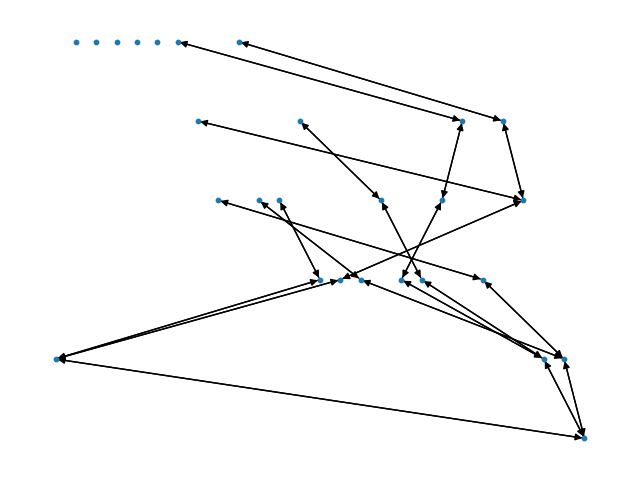
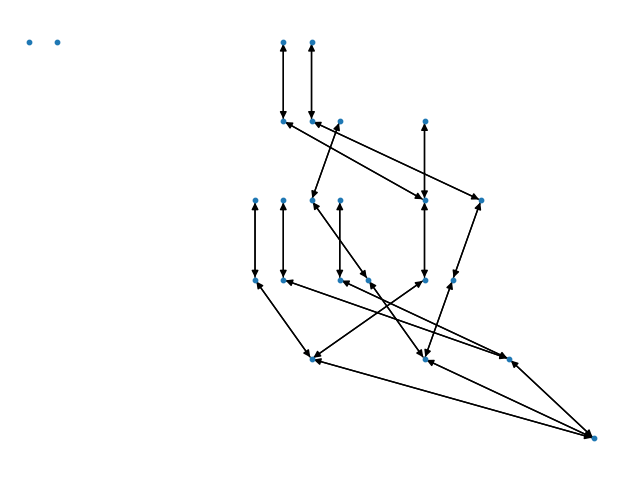
Fix insertion. Add toggling

diff --git a/2/main.py b/2/main.py
@@ -4,6 +4,7 @@ from typing import Dict, List, Set, Tuple
 import networkx
 import matplotlib.pyplot as plt
 from queue import Queue
+from statistics import median
 
 DEFAULT_ENUMVAL: int = 1e12
 
@@ -14,7 +15,7 @@ class Node:
         self.val: str = val
         self.level: int = -1
         self.x: int = -1
-        self.enumVal = DEFAULT_ENUMVAL
+        self.enumVal : float = DEFAULT_ENUMVAL
 
     def addNode(self, child):
         if child:
@@ -23,6 +24,33 @@ class Node:
 
     def getNeighbors(self):
         return self.__neighbors
+
+    def toggle(self, visited : set, takenKoords : set):
+        if self in visited:
+            return
+        visited.add(self)
+        neighVals : List[int] = list()
+        for node in self.__neighbors:
+            neighVals.append(node.enumVal)
+        
+        if not neighVals:
+            return
+
+        takenKoords.add((self.level, self.enumVal))
+        bestKoord : int = int(median(neighVals))
+        i : int = 0
+        while (self.level, bestKoord + i) in takenKoords and (self.level, bestKoord - i) in takenKoords:
+            i+=1
+        if (self.level, bestKoord + i) not in takenKoords:
+            self.enumVal = bestKoord + i
+            takenKoords.add((self.level, self.enumVal))
+        elif (self.level, bestKoord - i) not in takenKoords:
+            self.enumVal = bestKoord - i
+            takenKoords.add((self.level, self.enumVal))
+
+        for node in self.__neighbors:
+            node.toggle(visited, takenKoords)
+
 
     def __ne__(self, other):
         return self.val != other.val
@@ -72,6 +100,11 @@ class Graph:
         for rawNode in rawNodes:
             self.__insertNode(None, rawNode)
         self.__startEnumerate()
+        toggled : Set[Node] = set()
+        takenKoords : set = set()
+        for node in self.nodes:
+            node.toggle(toggled, takenKoords)
+
 
     def __startEnumerate(self):
         first : Node = next(iter(self.nodes))
@@ -81,6 +114,7 @@ class Graph:
             self.__enumerate(currEnumVal)
         self.__levelEnumerate()
         pass
+
 
     def __levelEnumerate(self):
         q : Queue = Queue()
@@ -115,12 +149,18 @@ class Graph:
         newNode: Node = Node(rawNewNode.id)
         if newNode in self.nodes:
             return
-        self.nodes.add(newNode)
         if parent:
             parent.addNode(newNode)
+            self.nodes.add(newNode)
+            self.nodes.add(parent)
+        
+        if not rawNewNode.children():
+            self.nodes.add(newNode)
 
         for child in rawNewNode.children():
             self.__insertNode(newNode, child)
+    
+    
 
 added : Set[Node] = set()
 
@@ -128,10 +168,10 @@ def addNode(gr: networkx.DiGraph, node: Node):
     if node in added:
         return
     added.add(node)
-    nodeName: str = str(node.level) + " (" + str(node.enumVal) + ")"
+    nodeName: str = node.getVal()
     gr.add_node(nodeName, loc=(node.enumVal, node.level))
     for child in node.getNeighbors():
-        childName: str = str(child.level) + " (" + str(child.enumVal) + ")"
+        childName: str = child.getVal()
         gr.add_edge(nodeName, childName)
         addNode(gr, child)
 
